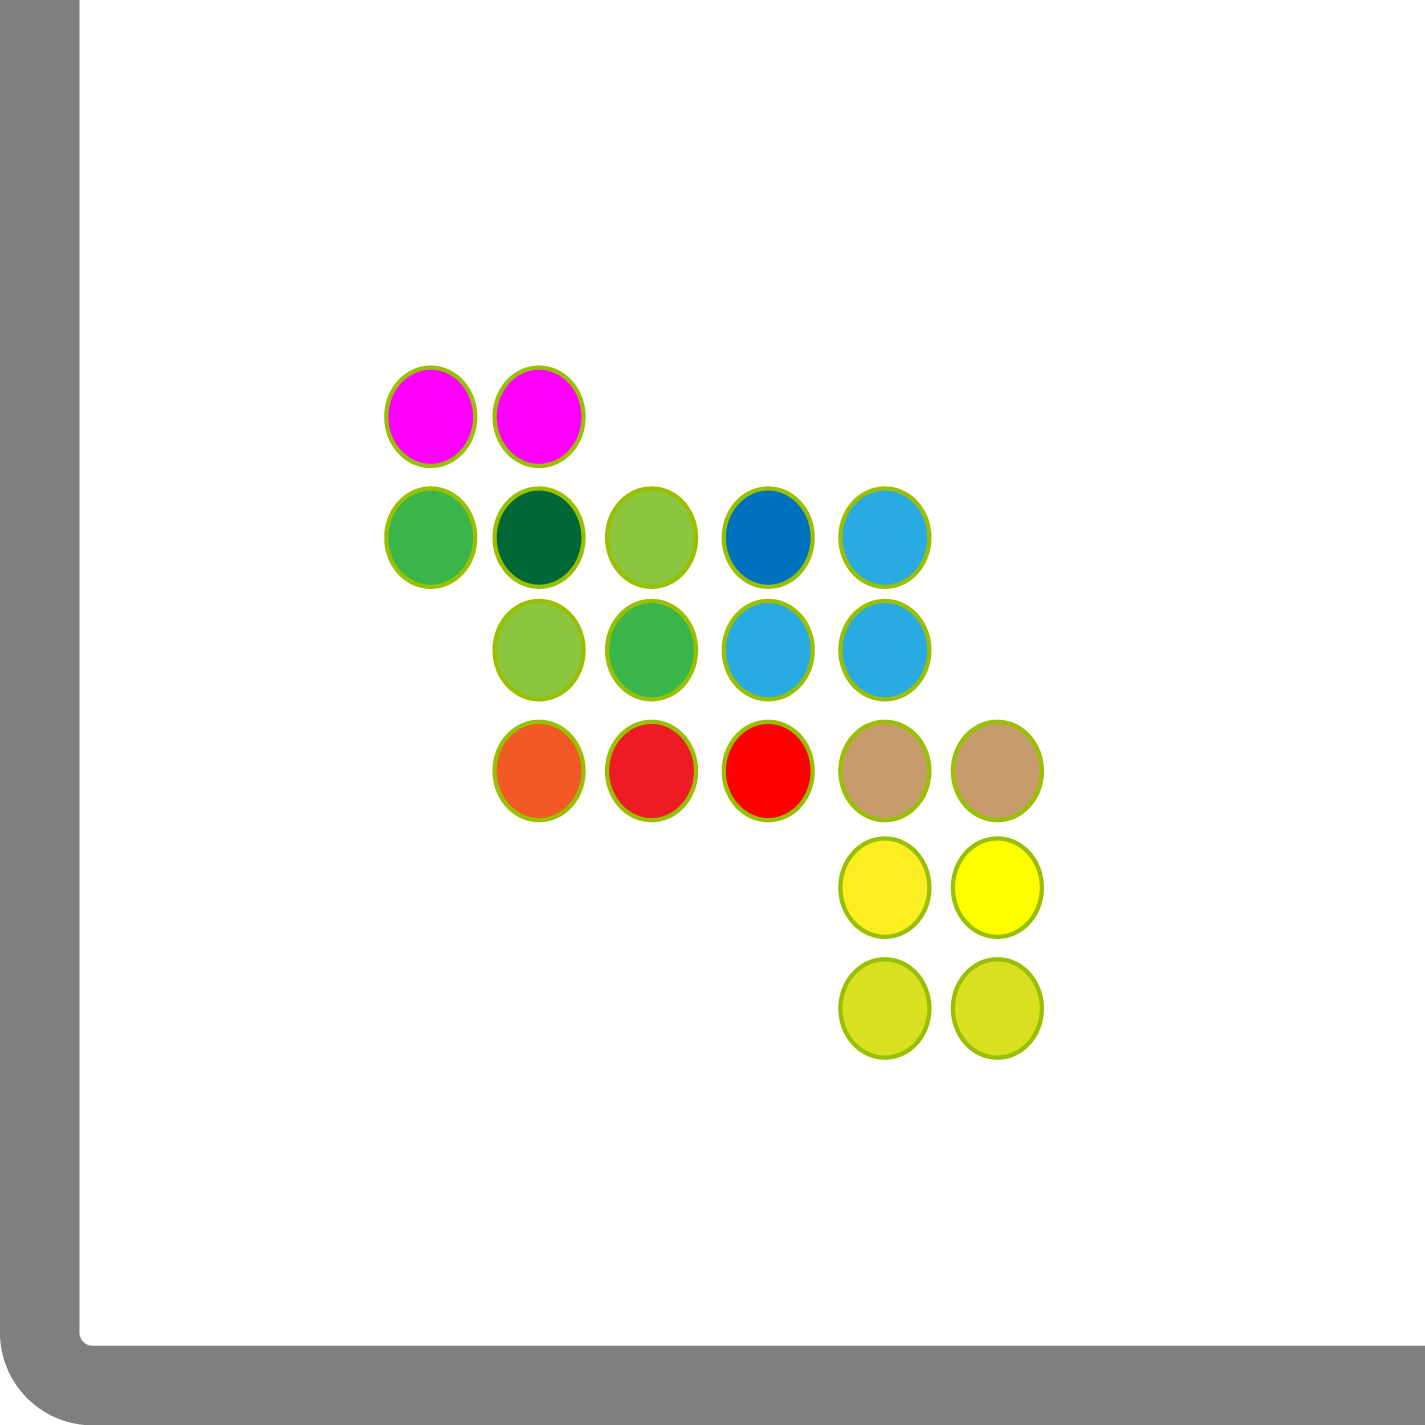
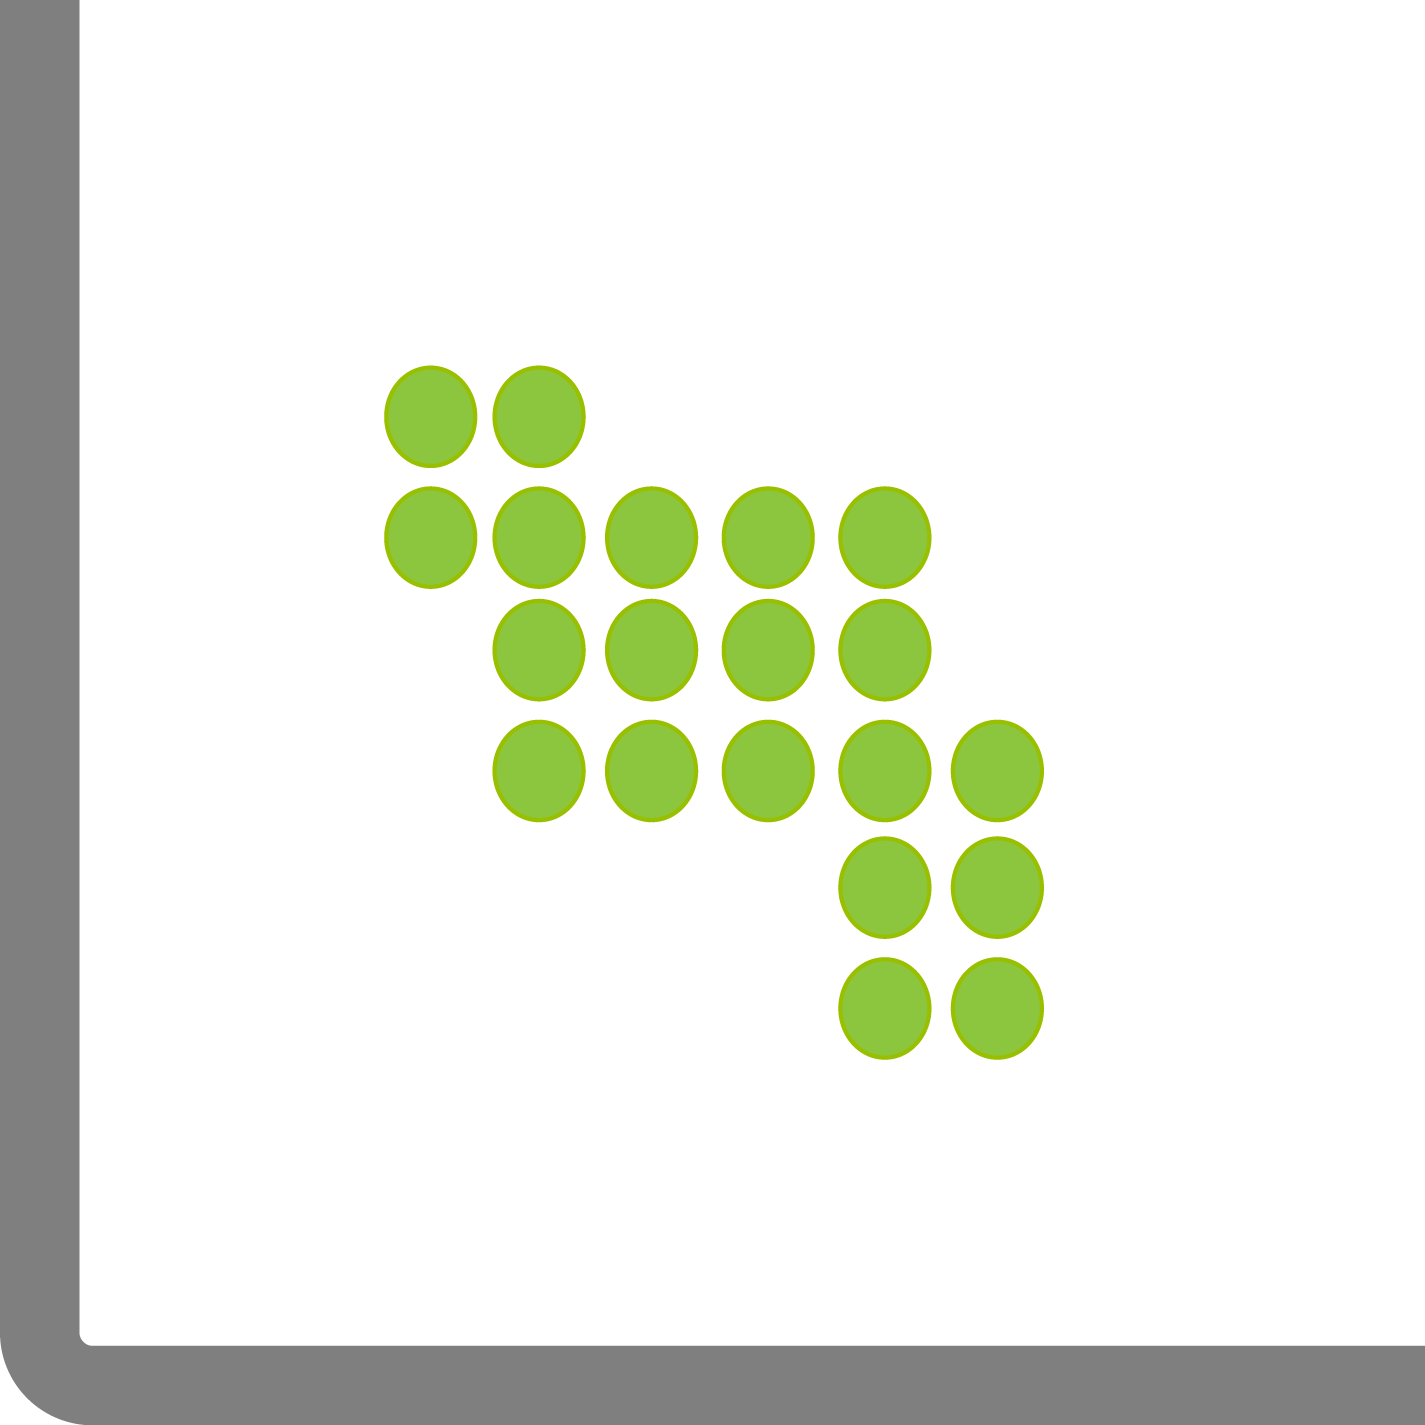
Added a scatter plot of reads/genes for the selections

Changed region(s): [[0.3396, 0.3396, 0.7411, 0.7411], [0.247, 0.247, 0.4323, 0.4323]]

diff --git a/src/analysis/AnalysisScatter.cpp b/src/analysis/AnalysisScatter.cpp
@@ -7,17 +7,152 @@
 #include <QMessageBox>
 #include <QScatterSeries>
 
-#include "math/RInterface.h"
+#include "color/HeatMap.h"
 
 #include "ui_analysisScatter.h"
 
 AnalysisScatter::AnalysisScatter(const STData::STDataFrame &data,
-                                 QWidget *parent) : QWidget(parent)
+                                 QWidget *parent, Qt::WindowFlags f)
+    : QWidget(parent, f)
+    , m_ui(new Ui::analysisScatter)
 {
 
+    // setup UI
+    m_ui->setupUi(this);
+
+    const unsigned num_spots = data.spots.size();
+    const colvec spot_reads = sum(data.counts, 1);
+    const colvec spot_genes = STData::computeNonZeroRows(data.counts);
+    const float min_reads = spot_reads.min();
+    const float max_reads = spot_reads.max();
+    const float min_genes = spot_genes.min();
+    const float max_genes = spot_genes.max();
+    for (unsigned i = 0; i < num_spots; ++i) {
+        QScatterSeries *series_reads = new QScatterSeries(this);
+        QScatterSeries *series_genes = new QScatterSeries(this);
+        series_reads->setMarkerShape(QScatterSeries::MarkerShapeCircle);
+        series_reads->setMarkerSize(10.0);
+        series_reads->setUseOpenGL(false);
+
+        series_genes->setMarkerShape(QScatterSeries::MarkerShapeCircle);
+        series_genes->setMarkerSize(10.0);
+        series_genes->setUseOpenGL(false);
+
+        const auto &spot = data.spots.at(i);
+        const float value_reads = spot_reads.at(i);
+        const float value_genes = spot_genes.at(i);
+        const QColor color_reads = Color::createCMapColor(value_reads, min_reads,
+                                                          max_reads, Color::ColorGradients::gpHot);
+        const QColor color_genes = Color::createCMapColor(value_genes, min_genes,
+                                                          max_genes, Color::ColorGradients::gpHot);
+        series_reads->setColor(color_reads);
+        series_reads->append(spot.first, spot.second * -1);
+        m_ui->plotReads->chart()->addSeries(series_reads);
+
+        series_genes->setColor(color_genes);
+        series_genes->append(spot.first, spot.second * -1);
+        m_ui->plotGenes->chart()->addSeries(series_genes);
+    }
+
+    m_ui->plotReads->chart()->setTitle("Spots colored by expression (transcripts)");
+    m_ui->plotReads->chart()->setDropShadowEnabled(false);
+    m_ui->plotReads->chart()->legend()->hide();
+    m_ui->plotReads->chart()->createDefaultAxes();
+
+    m_ui->plotGenes->chart()->setTitle("Spots colored by expression (genes)");
+    m_ui->plotGenes->chart()->setDropShadowEnabled(false);
+    m_ui->plotGenes->chart()->legend()->hide();
+    m_ui->plotGenes->chart()->createDefaultAxes();
+
+    connect(m_ui->exportReads, &QPushButton::clicked, this, &AnalysisScatter::slotExportPlotReads);
+    connect(m_ui->exportGenes, &QPushButton::clicked, this, &AnalysisScatter::slotExportPlotGenes);
 }
 
 AnalysisScatter::~AnalysisScatter()
 {
 
+}
+
+void AnalysisScatter::slotExportPlotReads()
+{
+    const QString filename = QFileDialog::getSaveFileName(this,
+                                                          tr("Save Scatter Transcripts Plot"),
+                                                          QDir::homePath(),
+                                                          QString("%1;;%2;;%3;;%4")
+                                                          .arg(tr("JPEG Image Files (*.jpg *.jpeg)"))
+                                                          .arg(tr("PNG Image Files (*.png)"))
+                                                          .arg(tr("BMP Image Files (*.bmp)"))
+                                                          .arg(tr("PDF Image Files (*.pdf)")));
+    // early out
+    if (filename.isEmpty()) {
+        return;
+    }
+
+    const QFileInfo fileInfo(filename);
+    const QFileInfo dirInfo(fileInfo.dir().canonicalPath());
+    if (!fileInfo.exists() && !dirInfo.isWritable()) {
+        QMessageBox::critical(this,
+                              tr("Save Scatter Transcripts Plot"),
+                              tr("The file is not writable"));
+        return;
+    }
+
+    const int quality = 100; // quality format (100 max, 0 min, -1 default)
+    const QString format = fileInfo.suffix().toLower();
+    QImage image = m_ui->plotReads->grab().toImage();
+    if (format.toLower().contains("pdf")) {
+        QPdfWriter writer(filename);
+        const QPageSize size(image.size(), QPageSize::Unit::Millimeter, "custom");
+        writer.setPageSize(size);
+        writer.setResolution(25);
+        writer.setPageMargins(QMarginsF(0,0,0,0));
+        QPainter painter(&writer);
+        painter.drawImage(0,0, image);
+    } else if (!image.save(filename, format.toStdString().c_str(), quality)) {
+        QMessageBox::critical(this,
+                              tr("Save Scatter Transcripts Plot"),
+                              tr("The image could not be creted."));
+    }
+}
+
+void AnalysisScatter::slotExportPlotGenes()
+{
+    const QString filename = QFileDialog::getSaveFileName(this,
+                                                          tr("Save Scatter Genes Plot"),
+                                                          QDir::homePath(),
+                                                          QString("%1;;%2;;%3;;%4")
+                                                          .arg(tr("JPEG Image Files (*.jpg *.jpeg)"))
+                                                          .arg(tr("PNG Image Files (*.png)"))
+                                                          .arg(tr("BMP Image Files (*.bmp)"))
+                                                          .arg(tr("PDF Image Files (*.pdf)")));
+    // early out
+    if (filename.isEmpty()) {
+        return;
+    }
+
+    const QFileInfo fileInfo(filename);
+    const QFileInfo dirInfo(fileInfo.dir().canonicalPath());
+    if (!fileInfo.exists() && !dirInfo.isWritable()) {
+        QMessageBox::critical(this,
+                              tr("Save Scatter Genes Plot"),
+                              tr("The file is not writable"));
+        return;
+    }
+
+    const int quality = 100; // quality format (100 max, 0 min, -1 default)
+    const QString format = fileInfo.suffix().toLower();
+    QImage image = m_ui->plotGenes->grab().toImage();
+    if (format.toLower().contains("pdf")) {
+        QPdfWriter writer(filename);
+        const QPageSize size(image.size(), QPageSize::Unit::Millimeter, "custom");
+        writer.setPageSize(size);
+        writer.setResolution(25);
+        writer.setPageMargins(QMarginsF(0,0,0,0));
+        QPainter painter(&writer);
+        painter.drawImage(0,0, image);
+    } else if (!image.save(filename, format.toStdString().c_str(), quality)) {
+        QMessageBox::critical(this,
+                              tr("Save Scatter Genes Plot"),
+                              tr("The image could not be creted."));
+    }
 }

diff --git a/src/viewPages/UserSelectionsPage.cpp b/src/viewPages/UserSelectionsPage.cpp
@@ -12,6 +12,7 @@
 #include "analysis/AnalysisDEA.h"
 #include "analysis/AnalysisCorrelation.h"
 #include "analysis/AnalysisQC.h"
+#include "analysis/AnalysisScatter.h"
 #include "SettingsStyle.h"
 
 #include "ui_selectionsPage.h"
@@ -50,6 +51,7 @@ UserSelectionsPage::UserSelectionsPage(QWidget *parent)
     connect(m_ui->showGenes, &QPushButton::clicked, this, &UserSelectionsPage::slotShowGenes);
     connect(m_ui->showSpots, &QPushButton::clicked, this, &UserSelectionsPage::slotShowSpots);
     connect(m_ui->qcAnalysis, &QPushButton::clicked, this, &UserSelectionsPage::slotQC);
+    connect(m_ui->scatter, &QPushButton::clicked, this, &UserSelectionsPage::slotScatter);
 
     connect(m_ui->selections_tableView, SIGNAL(signalSelectionExport(QModelIndex)),
             this, SLOT(slotExportSelection(QModelIndex)));
@@ -101,6 +103,7 @@ void UserSelectionsPage::clearControls()
     // only import enabled by default
     m_ui->removeSelection->setEnabled(false);
     m_ui->qcAnalysis->setEnabled(false);
+    m_ui->scatter->setEnabled(false);
     m_ui->exportSelection->setEnabled(false);
     m_ui->ddaAnalysis->setEnabled(false);
     m_ui->editSelection->setEnabled(false);
@@ -126,6 +129,7 @@ void UserSelectionsPage::slotSelectionSelected(QModelIndex index)
     m_ui->importSelection->setEnabled(enableSingle);
     m_ui->ddaAnalysis->setEnabled(enableMultiple);
     m_ui->qcAnalysis->setEnabled(enableSingle);
+    m_ui->scatter->setEnabled(enableSingle);
     m_ui->editSelection->setEnabled(enableSingle);
     m_ui->showGenes->setEnabled(enableSingle);
     m_ui->showSpots->setEnabled(enableSingle);
@@ -430,6 +434,20 @@ void UserSelectionsPage::slotQC()
     const auto selectionObject = currentSelection.front();
     AnalysisQC *qc = new AnalysisQC(selectionObject.data(), this, Qt::Window);
     qc->show();
+}
+
+void UserSelectionsPage::slotScatter()
+{
+    // get the selected object (should be only one)
+    const auto selected = m_ui->selections_tableView->userSelecionTableItemSelection();
+    const auto currentSelection = selectionsModel()->getSelections(selected);
+    if (currentSelection.empty() || currentSelection.size() > 1) {
+        return;
+    }
+
+    const auto selectionObject = currentSelection.front();
+    AnalysisScatter *scatter = new AnalysisScatter(selectionObject.data(), this, Qt::Window);
+    scatter->show();
 }
 
 bool UserSelectionsPage::nameExist(const QString &name)

diff --git a/src/analysis/AnalysisScatter.h b/src/analysis/AnalysisScatter.h
@@ -21,13 +21,20 @@ class AnalysisScatter : public QWidget
 public:
 
     AnalysisScatter(const STData::STDataFrame &data,
-                    QWidget *parent = nullptr);
+                    QWidget *parent = nullptr,
+                    Qt::WindowFlags f = 0);
 
     virtual ~AnalysisScatter();
 
 signals:
 
 public slots:
+
+private slots:
+
+     // to export the scatter plots to  a file
+    void slotExportPlotGenes();
+    void slotExportPlotReads();
 
 private:
 

diff --git a/src/viewPages/UserSelectionsPage.h b/src/viewPages/UserSelectionsPage.h
@@ -62,6 +62,8 @@ private slots:
     void slotShowSpots();
     // slot to show the QC widget with the selection
     void slotQC();
+    // slot to show the Scatter plot of genes and reads
+    void slotScatter();
     // to import a selection from a file
     void slotImportSelection();
 
